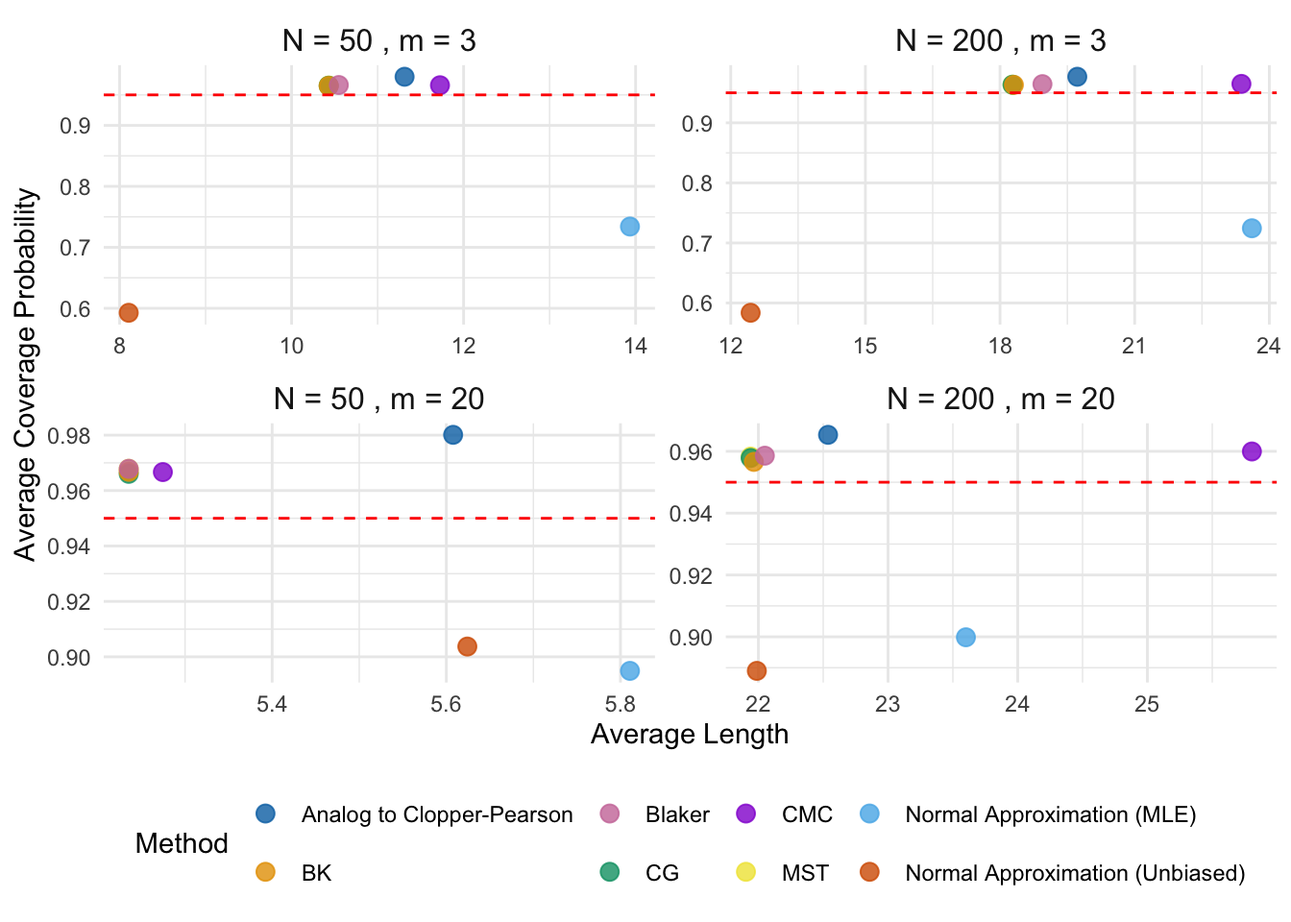
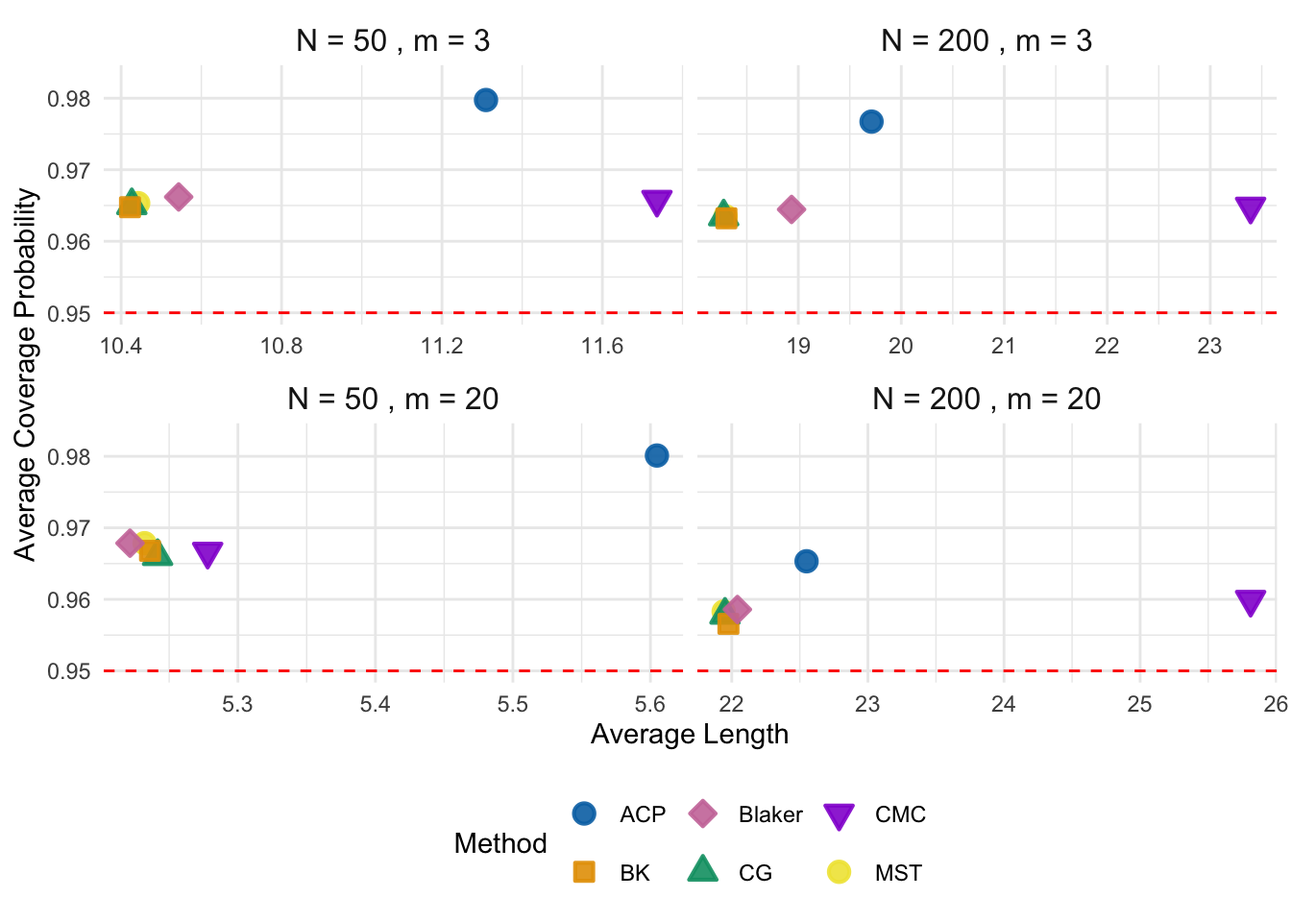
updated average length plots (symbols, fixed y-axis, ACP)

diff --git a/M_Unknown/Interval_Length.html b/M_Unknown/Interval_Length.html
@@ -689,42 +689,67 @@ dbl (4): M, ExpectedLength, N, m
 <span id="cb42-2"><a href="#cb42-2" aria-hidden="true" tabindex="-1"></a><span class="co"># write.csv(results, file.path(getwd(), "average_length.csv"), row.names = FALSE)</span></span></code><button title="Copy to Clipboard" class="code-copy-button"><i class="bi"></i></button></pre></div>
 </div>
 <div class="cell">
-<div class="sourceCode cell-code" id="cb43"><pre class="sourceCode r code-with-copy"><code class="sourceCode r"><span id="cb43-1"><a href="#cb43-1" aria-hidden="true" tabindex="-1"></a><span class="fu">set.seed</span>(<span class="dv">818</span>)</span>
+<div class="sourceCode cell-code" id="cb43"><pre class="sourceCode r code-with-copy"><code class="sourceCode r"><span id="cb43-1"><a href="#cb43-1" aria-hidden="true" tabindex="-1"></a><span class="fu">set.seed</span>(<span class="dv">1</span>)</span>
 <span id="cb43-2"><a href="#cb43-2" aria-hidden="true" tabindex="-1"></a></span>
 <span id="cb43-3"><a href="#cb43-3" aria-hidden="true" tabindex="-1"></a><span class="co"># Load the data</span></span>
 <span id="cb43-4"><a href="#cb43-4" aria-hidden="true" tabindex="-1"></a>results <span class="ot">&lt;-</span> <span class="fu">read_csv</span>(<span class="st">"average_length_cov_prob.csv"</span>)</span>
 <span id="cb43-5"><a href="#cb43-5" aria-hidden="true" tabindex="-1"></a></span>
-<span id="cb43-6"><a href="#cb43-6" aria-hidden="true" tabindex="-1"></a><span class="co"># Combine N and m labels into a single factor for facetting</span></span>
-<span id="cb43-7"><a href="#cb43-7" aria-hidden="true" tabindex="-1"></a>results<span class="sc">$</span>facet_label <span class="ot">&lt;-</span> <span class="fu">factor</span>(</span>
-<span id="cb43-8"><a href="#cb43-8" aria-hidden="true" tabindex="-1"></a>  <span class="fu">paste</span>(<span class="st">"N ="</span>, results<span class="sc">$</span>N, <span class="st">", m ="</span>, results<span class="sc">$</span>m),</span>
-<span id="cb43-9"><a href="#cb43-9" aria-hidden="true" tabindex="-1"></a>  <span class="at">levels =</span> <span class="fu">c</span>(<span class="st">"N = 50 , m = 3"</span>, <span class="st">"N = 200 , m = 3"</span>, <span class="st">"N = 50 , m = 20"</span>, <span class="st">"N = 200 , m = 20"</span>)</span>
-<span id="cb43-10"><a href="#cb43-10" aria-hidden="true" tabindex="-1"></a>)</span>
-<span id="cb43-11"><a href="#cb43-11" aria-hidden="true" tabindex="-1"></a></span>
-<span id="cb43-12"><a href="#cb43-12" aria-hidden="true" tabindex="-1"></a><span class="co"># Define a distinct color palette</span></span>
-<span id="cb43-13"><a href="#cb43-13" aria-hidden="true" tabindex="-1"></a><span class="co"># distinct_colors &lt;- c("red", "blue", "green", "purple", "orange", "cyan", "magenta", "yellow")</span></span>
-<span id="cb43-14"><a href="#cb43-14" aria-hidden="true" tabindex="-1"></a>distinct_colors <span class="ot">&lt;-</span> <span class="fu">c</span>(</span>
-<span id="cb43-15"><a href="#cb43-15" aria-hidden="true" tabindex="-1"></a>  <span class="st">"#0072B2"</span>, <span class="co"># blue</span></span>
-<span id="cb43-16"><a href="#cb43-16" aria-hidden="true" tabindex="-1"></a>  <span class="st">"#E69F00"</span>, <span class="co"># orange</span></span>
-<span id="cb43-17"><a href="#cb43-17" aria-hidden="true" tabindex="-1"></a>  <span class="st">"#CC79A7"</span>, <span class="co"># pink</span></span>
-<span id="cb43-18"><a href="#cb43-18" aria-hidden="true" tabindex="-1"></a>  <span class="st">"#009E73"</span>, <span class="co"># green</span></span>
-<span id="cb43-19"><a href="#cb43-19" aria-hidden="true" tabindex="-1"></a>  <span class="st">"#9400D3"</span>, <span class="co"># purple</span></span>
-<span id="cb43-20"><a href="#cb43-20" aria-hidden="true" tabindex="-1"></a>  <span class="st">"#F0E442"</span>, <span class="co"># yellow</span></span>
-<span id="cb43-21"><a href="#cb43-21" aria-hidden="true" tabindex="-1"></a>  <span class="st">"#56B4E9"</span>, <span class="co"># sky blue (from extended CUD palette)</span></span>
-<span id="cb43-22"><a href="#cb43-22" aria-hidden="true" tabindex="-1"></a>  <span class="st">"#D55E00"</span>  <span class="co"># vermilion (also from extended CUD)</span></span>
-<span id="cb43-23"><a href="#cb43-23" aria-hidden="true" tabindex="-1"></a>)</span>
-<span id="cb43-24"><a href="#cb43-24" aria-hidden="true" tabindex="-1"></a></span>
-<span id="cb43-25"><a href="#cb43-25" aria-hidden="true" tabindex="-1"></a><span class="co"># Create the scatter plot using facet_wrap for independent axes</span></span>
-<span id="cb43-26"><a href="#cb43-26" aria-hidden="true" tabindex="-1"></a><span class="fu">ggplot</span>(results, <span class="fu">aes</span>(<span class="at">x =</span> AverageLength, <span class="at">y =</span> AverageCovProb, <span class="at">color =</span> Method)) <span class="sc">+</span></span>
-<span id="cb43-27"><a href="#cb43-27" aria-hidden="true" tabindex="-1"></a>  <span class="fu">geom_jitter</span>(<span class="at">size =</span> <span class="dv">3</span>, <span class="at">alpha =</span> <span class="fl">0.8</span>, <span class="at">width =</span> <span class="dv">0</span>, <span class="at">height =</span> <span class="dv">0</span>) <span class="sc">+</span>  </span>
-<span id="cb43-28"><a href="#cb43-28" aria-hidden="true" tabindex="-1"></a>  <span class="fu">geom_hline</span>(<span class="at">yintercept =</span> <span class="fl">0.95</span>, <span class="at">color =</span> <span class="st">"red"</span>, <span class="at">linetype =</span> <span class="st">"dashed"</span>) <span class="sc">+</span></span>
-<span id="cb43-29"><a href="#cb43-29" aria-hidden="true" tabindex="-1"></a>  <span class="fu">facet_wrap</span>(<span class="sc">~</span> facet_label, <span class="at">scales =</span> <span class="st">"free"</span>) <span class="sc">+</span>  <span class="co"># Use facet_wrap with free scales</span></span>
-<span id="cb43-30"><a href="#cb43-30" aria-hidden="true" tabindex="-1"></a>  <span class="fu">scale_color_manual</span>(<span class="at">values =</span> distinct_colors) <span class="sc">+</span>  <span class="co"># Apply the distinct color palette</span></span>
-<span id="cb43-31"><a href="#cb43-31" aria-hidden="true" tabindex="-1"></a>  <span class="fu">labs</span>(<span class="at">x =</span> <span class="st">"Average Length"</span>, <span class="at">y =</span> <span class="st">"Average Coverage Probability"</span>, <span class="at">color =</span> <span class="st">"Method"</span>) <span class="sc">+</span></span>
-<span id="cb43-32"><a href="#cb43-32" aria-hidden="true" tabindex="-1"></a>  <span class="fu">theme_minimal</span>() <span class="sc">+</span></span>
-<span id="cb43-33"><a href="#cb43-33" aria-hidden="true" tabindex="-1"></a>  <span class="fu">theme</span>(</span>
-<span id="cb43-34"><a href="#cb43-34" aria-hidden="true" tabindex="-1"></a>    <span class="at">legend.position =</span> <span class="st">"bottom"</span>,</span>
-<span id="cb43-35"><a href="#cb43-35" aria-hidden="true" tabindex="-1"></a>    <span class="at">strip.text =</span> <span class="fu">element_text</span>(<span class="at">size =</span> <span class="dv">12</span>)  <span class="co"># Increase facet label size for clarity</span></span>
-<span id="cb43-36"><a href="#cb43-36" aria-hidden="true" tabindex="-1"></a>  )</span></code><button title="Copy to Clipboard" class="code-copy-button"><i class="bi"></i></button></pre></div>
+<span id="cb43-6"><a href="#cb43-6" aria-hidden="true" tabindex="-1"></a><span class="co"># Remove rows where Method is "Normal"</span></span>
+<span id="cb43-7"><a href="#cb43-7" aria-hidden="true" tabindex="-1"></a>results <span class="ot">&lt;-</span> results <span class="sc">%&gt;%</span> </span>
+<span id="cb43-8"><a href="#cb43-8" aria-hidden="true" tabindex="-1"></a>  <span class="fu">filter</span>(Method <span class="sc">!=</span> <span class="st">"Normal Approximation (MLE)"</span>) <span class="sc">%&gt;%</span></span>
+<span id="cb43-9"><a href="#cb43-9" aria-hidden="true" tabindex="-1"></a>  <span class="fu">filter</span>(Method <span class="sc">!=</span> <span class="st">"Normal Approximation (Unbiased)"</span>)</span>
+<span id="cb43-10"><a href="#cb43-10" aria-hidden="true" tabindex="-1"></a></span>
+<span id="cb43-11"><a href="#cb43-11" aria-hidden="true" tabindex="-1"></a><span class="co"># Replace method name</span></span>
+<span id="cb43-12"><a href="#cb43-12" aria-hidden="true" tabindex="-1"></a>results<span class="sc">$</span>Method <span class="ot">&lt;-</span> <span class="fu">gsub</span>(<span class="st">"Analog to Clopper-Pearson"</span>, <span class="st">"ACP"</span>, results<span class="sc">$</span>Method)</span>
+<span id="cb43-13"><a href="#cb43-13" aria-hidden="true" tabindex="-1"></a></span>
+<span id="cb43-14"><a href="#cb43-14" aria-hidden="true" tabindex="-1"></a><span class="co"># Combine N and m labels into a single factor for facetting</span></span>
+<span id="cb43-15"><a href="#cb43-15" aria-hidden="true" tabindex="-1"></a>results<span class="sc">$</span>facet_label <span class="ot">&lt;-</span> <span class="fu">factor</span>(</span>
+<span id="cb43-16"><a href="#cb43-16" aria-hidden="true" tabindex="-1"></a>  <span class="fu">paste</span>(<span class="st">"N ="</span>, results<span class="sc">$</span>N, <span class="st">", m ="</span>, results<span class="sc">$</span>m),</span>
+<span id="cb43-17"><a href="#cb43-17" aria-hidden="true" tabindex="-1"></a>  <span class="at">levels =</span> <span class="fu">c</span>(<span class="st">"N = 50 , m = 3"</span>, <span class="st">"N = 200 , m = 3"</span>, <span class="st">"N = 50 , m = 20"</span>, <span class="st">"N = 200 , m = 20"</span>)</span>
+<span id="cb43-18"><a href="#cb43-18" aria-hidden="true" tabindex="-1"></a>)</span>
+<span id="cb43-19"><a href="#cb43-19" aria-hidden="true" tabindex="-1"></a></span>
+<span id="cb43-20"><a href="#cb43-20" aria-hidden="true" tabindex="-1"></a><span class="co"># Define a distinct color palette (CUD palette, extended)</span></span>
+<span id="cb43-21"><a href="#cb43-21" aria-hidden="true" tabindex="-1"></a>distinct_colors <span class="ot">&lt;-</span> <span class="fu">c</span>(</span>
+<span id="cb43-22"><a href="#cb43-22" aria-hidden="true" tabindex="-1"></a>  <span class="st">"#0072B2"</span>, <span class="co"># blue</span></span>
+<span id="cb43-23"><a href="#cb43-23" aria-hidden="true" tabindex="-1"></a>  <span class="st">"#E69F00"</span>, <span class="co"># orange</span></span>
+<span id="cb43-24"><a href="#cb43-24" aria-hidden="true" tabindex="-1"></a>  <span class="st">"#CC79A7"</span>, <span class="co"># pink</span></span>
+<span id="cb43-25"><a href="#cb43-25" aria-hidden="true" tabindex="-1"></a>  <span class="st">"#009E73"</span>, <span class="co"># green</span></span>
+<span id="cb43-26"><a href="#cb43-26" aria-hidden="true" tabindex="-1"></a>  <span class="st">"#9400D3"</span>, <span class="co"># purple</span></span>
+<span id="cb43-27"><a href="#cb43-27" aria-hidden="true" tabindex="-1"></a>  <span class="st">"#F0E442"</span>, <span class="co"># yellow</span></span>
+<span id="cb43-28"><a href="#cb43-28" aria-hidden="true" tabindex="-1"></a>  <span class="st">"#56B4E9"</span>, <span class="co"># sky blue</span></span>
+<span id="cb43-29"><a href="#cb43-29" aria-hidden="true" tabindex="-1"></a>  <span class="st">"#D55E00"</span>  <span class="co"># vermilion</span></span>
+<span id="cb43-30"><a href="#cb43-30" aria-hidden="true" tabindex="-1"></a>)</span>
+<span id="cb43-31"><a href="#cb43-31" aria-hidden="true" tabindex="-1"></a></span>
+<span id="cb43-32"><a href="#cb43-32" aria-hidden="true" tabindex="-1"></a><span class="co"># Select shapes that support fill (21–25)</span></span>
+<span id="cb43-33"><a href="#cb43-33" aria-hidden="true" tabindex="-1"></a>shape_vals <span class="ot">&lt;-</span> <span class="fu">c</span>(<span class="dv">21</span>, <span class="dv">22</span>, <span class="dv">23</span>, <span class="dv">24</span>, <span class="dv">25</span>, <span class="dv">21</span>, <span class="dv">22</span>, <span class="dv">23</span>)[<span class="dv">1</span><span class="sc">:</span><span class="fu">length</span>(<span class="fu">unique</span>(results<span class="sc">$</span>Method))]</span>
+<span id="cb43-34"><a href="#cb43-34" aria-hidden="true" tabindex="-1"></a></span>
+<span id="cb43-35"><a href="#cb43-35" aria-hidden="true" tabindex="-1"></a><span class="co"># Create the plot</span></span>
+<span id="cb43-36"><a href="#cb43-36" aria-hidden="true" tabindex="-1"></a><span class="fu">ggplot</span>(results, <span class="fu">aes</span>(</span>
+<span id="cb43-37"><a href="#cb43-37" aria-hidden="true" tabindex="-1"></a>  <span class="at">x =</span> AverageLength, </span>
+<span id="cb43-38"><a href="#cb43-38" aria-hidden="true" tabindex="-1"></a>  <span class="at">y =</span> AverageCovProb, </span>
+<span id="cb43-39"><a href="#cb43-39" aria-hidden="true" tabindex="-1"></a>  <span class="at">color =</span> Method, </span>
+<span id="cb43-40"><a href="#cb43-40" aria-hidden="true" tabindex="-1"></a>  <span class="at">shape =</span> Method, </span>
+<span id="cb43-41"><a href="#cb43-41" aria-hidden="true" tabindex="-1"></a>  <span class="at">fill =</span> Method</span>
+<span id="cb43-42"><a href="#cb43-42" aria-hidden="true" tabindex="-1"></a>)) <span class="sc">+</span></span>
+<span id="cb43-43"><a href="#cb43-43" aria-hidden="true" tabindex="-1"></a>  <span class="fu">geom_jitter</span>(<span class="at">size =</span> <span class="dv">3</span>, <span class="at">alpha =</span> <span class="fl">0.9</span>, <span class="at">width =</span> <span class="fl">0.015</span>, <span class="at">height =</span> <span class="dv">0</span>, <span class="at">stroke =</span> <span class="fl">1.1</span>) <span class="sc">+</span></span>
+<span id="cb43-44"><a href="#cb43-44" aria-hidden="true" tabindex="-1"></a>  <span class="fu">geom_hline</span>(<span class="at">yintercept =</span> <span class="fl">0.95</span>, <span class="at">color =</span> <span class="st">"red"</span>, <span class="at">linetype =</span> <span class="st">"dashed"</span>) <span class="sc">+</span></span>
+<span id="cb43-45"><a href="#cb43-45" aria-hidden="true" tabindex="-1"></a>  <span class="fu">facet_wrap</span>(<span class="sc">~</span> facet_label, <span class="at">scales =</span> <span class="st">"free_x"</span>) <span class="sc">+</span>  <span class="co"># fix y-axis only</span></span>
+<span id="cb43-46"><a href="#cb43-46" aria-hidden="true" tabindex="-1"></a>  <span class="fu">scale_color_manual</span>(<span class="at">values =</span> distinct_colors) <span class="sc">+</span></span>
+<span id="cb43-47"><a href="#cb43-47" aria-hidden="true" tabindex="-1"></a>  <span class="fu">scale_fill_manual</span>(<span class="at">values =</span> distinct_colors) <span class="sc">+</span></span>
+<span id="cb43-48"><a href="#cb43-48" aria-hidden="true" tabindex="-1"></a>  <span class="fu">scale_shape_manual</span>(<span class="at">values =</span> shape_vals) <span class="sc">+</span></span>
+<span id="cb43-49"><a href="#cb43-49" aria-hidden="true" tabindex="-1"></a>  <span class="fu">scale_y_continuous</span>(<span class="at">limits =</span> <span class="fu">c</span>(<span class="fl">0.95</span>, <span class="fl">0.983</span>)) <span class="sc">+</span>  <span class="co"># manually fix y-axis</span></span>
+<span id="cb43-50"><a href="#cb43-50" aria-hidden="true" tabindex="-1"></a>  <span class="fu">labs</span>(</span>
+<span id="cb43-51"><a href="#cb43-51" aria-hidden="true" tabindex="-1"></a>    <span class="at">x =</span> <span class="st">"Average Length"</span>, </span>
+<span id="cb43-52"><a href="#cb43-52" aria-hidden="true" tabindex="-1"></a>    <span class="at">y =</span> <span class="st">"Average Coverage Probability"</span>, </span>
+<span id="cb43-53"><a href="#cb43-53" aria-hidden="true" tabindex="-1"></a>    <span class="at">color =</span> <span class="st">"Method"</span>, </span>
+<span id="cb43-54"><a href="#cb43-54" aria-hidden="true" tabindex="-1"></a>    <span class="at">shape =</span> <span class="st">"Method"</span>, </span>
+<span id="cb43-55"><a href="#cb43-55" aria-hidden="true" tabindex="-1"></a>    <span class="at">fill =</span> <span class="st">"Method"</span></span>
+<span id="cb43-56"><a href="#cb43-56" aria-hidden="true" tabindex="-1"></a>  ) <span class="sc">+</span></span>
+<span id="cb43-57"><a href="#cb43-57" aria-hidden="true" tabindex="-1"></a>  <span class="fu">theme_minimal</span>() <span class="sc">+</span></span>
+<span id="cb43-58"><a href="#cb43-58" aria-hidden="true" tabindex="-1"></a>  <span class="fu">theme</span>(</span>
+<span id="cb43-59"><a href="#cb43-59" aria-hidden="true" tabindex="-1"></a>    <span class="at">legend.position =</span> <span class="st">"bottom"</span>,</span>
+<span id="cb43-60"><a href="#cb43-60" aria-hidden="true" tabindex="-1"></a>    <span class="at">strip.text =</span> <span class="fu">element_text</span>(<span class="at">size =</span> <span class="dv">12</span>)</span>
+<span id="cb43-61"><a href="#cb43-61" aria-hidden="true" tabindex="-1"></a>  )</span></code><button title="Copy to Clipboard" class="code-copy-button"><i class="bi"></i></button></pre></div>
 <div class="cell-output-display">
 <div>
 <figure class="figure">

diff --git a/N_Unknown/Interval_Length.html b/N_Unknown/Interval_Length.html
@@ -1732,24 +1732,41 @@ pre > code.sourceCode > span > a:first-child::before { text-decoration: underlin
 <span id="cb112-6"><a href="#cb112-6" aria-hidden="true" tabindex="-1"></a>  <span class="at">levels =</span> <span class="fu">c</span>(<span class="st">"M = 25 , m = 5"</span>, <span class="st">"M = 50 , m = 5"</span>, <span class="st">"M = 25 , m = 15"</span>, <span class="st">"M = 50 , m = 15"</span>)</span>
 <span id="cb112-7"><a href="#cb112-7" aria-hidden="true" tabindex="-1"></a>)</span>
 <span id="cb112-8"><a href="#cb112-8" aria-hidden="true" tabindex="-1"></a></span>
-<span id="cb112-9"><a href="#cb112-9" aria-hidden="true" tabindex="-1"></a><span class="co"># Define a distinct color palette</span></span>
-<span id="cb112-10"><a href="#cb112-10" aria-hidden="true" tabindex="-1"></a><span class="co"># distinct_colors &lt;- c("red", "blue", "green", "purple", "orange", "cyan")</span></span>
-<span id="cb112-11"><a href="#cb112-11" aria-hidden="true" tabindex="-1"></a>distinct_colors <span class="ot">&lt;-</span> <span class="fu">c</span>(<span class="st">"#0072B2"</span>, <span class="st">"#E69F00"</span>, <span class="st">"#CC79A7"</span>, <span class="st">"#009E73"</span>, <span class="st">"#9400D3"</span>, <span class="st">"#F0E442"</span>)</span>
-<span id="cb112-12"><a href="#cb112-12" aria-hidden="true" tabindex="-1"></a></span>
-<span id="cb112-13"><a href="#cb112-13" aria-hidden="true" tabindex="-1"></a><span class="co"># Create the scatter plot using facet_wrap for independent axes</span></span>
-<span id="cb112-14"><a href="#cb112-14" aria-hidden="true" tabindex="-1"></a><span class="fu">ggplot</span>(average_length_cp_plot_df, <span class="fu">aes</span>(<span class="at">x =</span> AverageLength, </span>
-<span id="cb112-15"><a href="#cb112-15" aria-hidden="true" tabindex="-1"></a>                                      <span class="at">y =</span> AverageCoverageProbability, </span>
-<span id="cb112-16"><a href="#cb112-16" aria-hidden="true" tabindex="-1"></a>                                      <span class="at">color =</span> Method)) <span class="sc">+</span></span>
-<span id="cb112-17"><a href="#cb112-17" aria-hidden="true" tabindex="-1"></a>  <span class="fu">geom_point</span>(<span class="at">size =</span> <span class="dv">3</span>) <span class="sc">+</span>  <span class="co"># Adjust point size and transparency</span></span>
-<span id="cb112-18"><a href="#cb112-18" aria-hidden="true" tabindex="-1"></a>  <span class="fu">geom_hline</span>(<span class="at">yintercept =</span> <span class="fl">0.95</span>, <span class="at">color =</span> <span class="st">"red"</span>, <span class="at">linetype =</span> <span class="st">"dashed"</span>) <span class="sc">+</span></span>
-<span id="cb112-19"><a href="#cb112-19" aria-hidden="true" tabindex="-1"></a>  <span class="fu">facet_wrap</span>(<span class="sc">~</span> facet_label, <span class="at">scales =</span> <span class="st">"free"</span>) <span class="sc">+</span>  <span class="co"># Use facet_wrap with free scales</span></span>
-<span id="cb112-20"><a href="#cb112-20" aria-hidden="true" tabindex="-1"></a>  <span class="fu">scale_color_manual</span>(<span class="at">values =</span> distinct_colors) <span class="sc">+</span>  <span class="co"># Apply the distinct color palette</span></span>
-<span id="cb112-21"><a href="#cb112-21" aria-hidden="true" tabindex="-1"></a>  <span class="fu">labs</span>(<span class="at">x =</span> <span class="st">"Average Length"</span>, <span class="at">y =</span> <span class="st">"Average Coverage Probability"</span>, <span class="at">color =</span> <span class="st">"Method"</span>) <span class="sc">+</span></span>
-<span id="cb112-22"><a href="#cb112-22" aria-hidden="true" tabindex="-1"></a>  <span class="fu">theme_minimal</span>() <span class="sc">+</span></span>
-<span id="cb112-23"><a href="#cb112-23" aria-hidden="true" tabindex="-1"></a>  <span class="fu">theme</span>(</span>
-<span id="cb112-24"><a href="#cb112-24" aria-hidden="true" tabindex="-1"></a>    <span class="at">legend.position =</span> <span class="st">"bottom"</span>,</span>
-<span id="cb112-25"><a href="#cb112-25" aria-hidden="true" tabindex="-1"></a>    <span class="at">strip.text =</span> <span class="fu">element_text</span>(<span class="at">size =</span> <span class="dv">12</span>)  <span class="co"># Increase facet label size for clarity</span></span>
-<span id="cb112-26"><a href="#cb112-26" aria-hidden="true" tabindex="-1"></a>  )</span></code><button title="Copy to Clipboard" class="code-copy-button"><i class="bi"></i></button></pre></div>
+<span id="cb112-9"><a href="#cb112-9" aria-hidden="true" tabindex="-1"></a><span class="co"># Rename method for cleaner legend</span></span>
+<span id="cb112-10"><a href="#cb112-10" aria-hidden="true" tabindex="-1"></a>average_length_cp_plot_df<span class="sc">$</span>Method <span class="ot">&lt;-</span> <span class="fu">gsub</span>(</span>
+<span id="cb112-11"><a href="#cb112-11" aria-hidden="true" tabindex="-1"></a>  <span class="st">"Analog to Clopper-Pearson"</span>, <span class="st">"ACP"</span>, average_length_cp_plot_df<span class="sc">$</span>Method</span>
+<span id="cb112-12"><a href="#cb112-12" aria-hidden="true" tabindex="-1"></a>)</span>
+<span id="cb112-13"><a href="#cb112-13" aria-hidden="true" tabindex="-1"></a></span>
+<span id="cb112-14"><a href="#cb112-14" aria-hidden="true" tabindex="-1"></a><span class="co"># Define color palette</span></span>
+<span id="cb112-15"><a href="#cb112-15" aria-hidden="true" tabindex="-1"></a>distinct_colors <span class="ot">&lt;-</span> <span class="fu">c</span>(<span class="st">"#0072B2"</span>, <span class="st">"#E69F00"</span>, <span class="st">"#CC79A7"</span>, <span class="st">"#009E73"</span>, <span class="st">"#9400D3"</span>, <span class="st">"#F0E442"</span>)</span>
+<span id="cb112-16"><a href="#cb112-16" aria-hidden="true" tabindex="-1"></a></span>
+<span id="cb112-17"><a href="#cb112-17" aria-hidden="true" tabindex="-1"></a><span class="co"># Plot</span></span>
+<span id="cb112-18"><a href="#cb112-18" aria-hidden="true" tabindex="-1"></a><span class="fu">ggplot</span>(average_length_cp_plot_df, <span class="fu">aes</span>(</span>
+<span id="cb112-19"><a href="#cb112-19" aria-hidden="true" tabindex="-1"></a>  <span class="at">x =</span> AverageLength, </span>
+<span id="cb112-20"><a href="#cb112-20" aria-hidden="true" tabindex="-1"></a>  <span class="at">y =</span> AverageCoverageProbability, </span>
+<span id="cb112-21"><a href="#cb112-21" aria-hidden="true" tabindex="-1"></a>  <span class="at">color =</span> Method, </span>
+<span id="cb112-22"><a href="#cb112-22" aria-hidden="true" tabindex="-1"></a>  <span class="at">fill =</span> Method,             <span class="co"># Map fill to Method</span></span>
+<span id="cb112-23"><a href="#cb112-23" aria-hidden="true" tabindex="-1"></a>  <span class="at">shape =</span> Method             <span class="co"># Shapes 21–25 support fill</span></span>
+<span id="cb112-24"><a href="#cb112-24" aria-hidden="true" tabindex="-1"></a>)) <span class="sc">+</span></span>
+<span id="cb112-25"><a href="#cb112-25" aria-hidden="true" tabindex="-1"></a>  <span class="fu">geom_point</span>(<span class="at">size =</span> <span class="dv">3</span>, <span class="at">stroke =</span> <span class="fl">1.2</span>) <span class="sc">+</span>  <span class="co"># stroke controls border thickness</span></span>
+<span id="cb112-26"><a href="#cb112-26" aria-hidden="true" tabindex="-1"></a>  <span class="fu">geom_hline</span>(<span class="at">yintercept =</span> <span class="fl">0.95</span>, <span class="at">color =</span> <span class="st">"red"</span>, <span class="at">linetype =</span> <span class="st">"dashed"</span>) <span class="sc">+</span></span>
+<span id="cb112-27"><a href="#cb112-27" aria-hidden="true" tabindex="-1"></a>  <span class="fu">facet_wrap</span>(<span class="sc">~</span> facet_label, <span class="at">scales =</span> <span class="st">"free_x"</span>) <span class="sc">+</span></span>
+<span id="cb112-28"><a href="#cb112-28" aria-hidden="true" tabindex="-1"></a>  <span class="fu">scale_y_continuous</span>(<span class="at">limits =</span> <span class="fu">c</span>(<span class="fl">0.949</span>, <span class="fl">0.973</span>)) <span class="sc">+</span></span>
+<span id="cb112-29"><a href="#cb112-29" aria-hidden="true" tabindex="-1"></a>  <span class="fu">scale_color_manual</span>(<span class="at">values =</span> distinct_colors) <span class="sc">+</span></span>
+<span id="cb112-30"><a href="#cb112-30" aria-hidden="true" tabindex="-1"></a>  <span class="fu">scale_fill_manual</span>(<span class="at">values =</span> distinct_colors) <span class="sc">+</span>  <span class="co"># match fill to color</span></span>
+<span id="cb112-31"><a href="#cb112-31" aria-hidden="true" tabindex="-1"></a>  <span class="fu">scale_shape_manual</span>(<span class="at">values =</span> <span class="fu">c</span>(<span class="dv">21</span>, <span class="dv">22</span>, <span class="dv">23</span>, <span class="dv">24</span>, <span class="dv">25</span>, <span class="dv">21</span>)) <span class="sc">+</span>  <span class="co"># pick from 21–25</span></span>
+<span id="cb112-32"><a href="#cb112-32" aria-hidden="true" tabindex="-1"></a>  <span class="fu">labs</span>(</span>
+<span id="cb112-33"><a href="#cb112-33" aria-hidden="true" tabindex="-1"></a>    <span class="at">x =</span> <span class="st">"Average Length"</span>, </span>
+<span id="cb112-34"><a href="#cb112-34" aria-hidden="true" tabindex="-1"></a>    <span class="at">y =</span> <span class="st">"Average Coverage Probability"</span>, </span>
+<span id="cb112-35"><a href="#cb112-35" aria-hidden="true" tabindex="-1"></a>    <span class="at">color =</span> <span class="st">"Method"</span>, </span>
+<span id="cb112-36"><a href="#cb112-36" aria-hidden="true" tabindex="-1"></a>    <span class="at">shape =</span> <span class="st">"Method"</span>, </span>
+<span id="cb112-37"><a href="#cb112-37" aria-hidden="true" tabindex="-1"></a>    <span class="at">fill =</span> <span class="st">"Method"</span></span>
+<span id="cb112-38"><a href="#cb112-38" aria-hidden="true" tabindex="-1"></a>  ) <span class="sc">+</span></span>
+<span id="cb112-39"><a href="#cb112-39" aria-hidden="true" tabindex="-1"></a>  <span class="fu">theme_minimal</span>() <span class="sc">+</span></span>
+<span id="cb112-40"><a href="#cb112-40" aria-hidden="true" tabindex="-1"></a>  <span class="fu">theme</span>(</span>
+<span id="cb112-41"><a href="#cb112-41" aria-hidden="true" tabindex="-1"></a>    <span class="at">legend.position =</span> <span class="st">"bottom"</span>,</span>
+<span id="cb112-42"><a href="#cb112-42" aria-hidden="true" tabindex="-1"></a>    <span class="at">strip.text =</span> <span class="fu">element_text</span>(<span class="at">size =</span> <span class="dv">12</span>)</span>
+<span id="cb112-43"><a href="#cb112-43" aria-hidden="true" tabindex="-1"></a>  )</span></code><button title="Copy to Clipboard" class="code-copy-button"><i class="bi"></i></button></pre></div>
 <div class="cell-output-display">
 <div>
 <figure class="figure">
